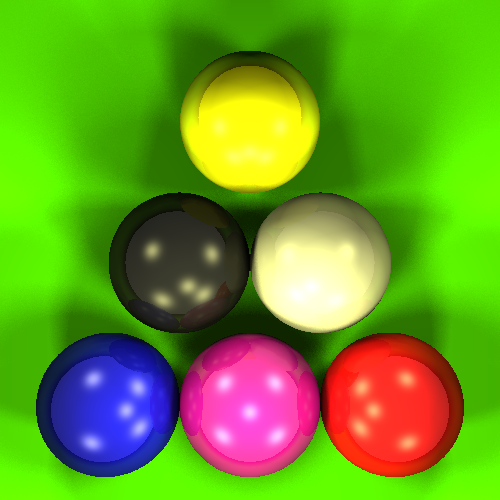
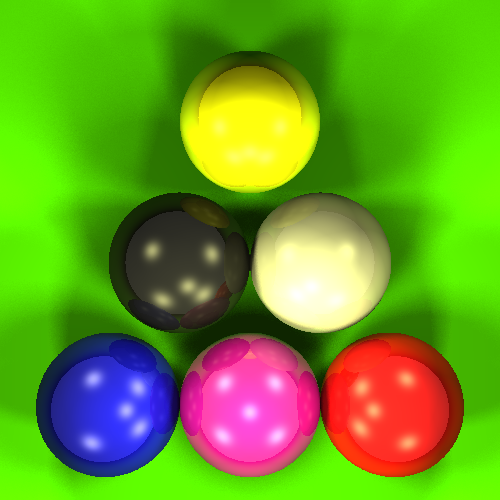
fixed reflection - still some discrepancy

diff --git a/utils.py b/utils.py
@@ -46,11 +46,6 @@ def precompute_camera(camera, width, height):
 
     return E, P0, step_x, step_y
 
-def construct_ray_from_camera(camera_position, pixel_position): # P = P0+tV
-    origin = _to_vec3(camera_position)
-    direction = _normalize(_to_vec3(pixel_position) - origin)
-    return origin, direction
-
 def get_lights(objects):
     return [o for o in objects if isinstance(o, Light)]
 
@@ -75,6 +70,7 @@ def check_ray_object_intersection(ray_origin, ray_dir, objects, ignore_obj=None)
     for obj in get_geometry_objects(objects):
         if ignore_obj is not None and obj is ignore_obj:
             continue
+
         name = obj.__class__.__name__
         if name == "Sphere":
             t, p, n = intersect_sphere(ray_origin, ray_dir, obj)
@@ -275,7 +271,6 @@ def compute_color_at_intersection(ray_origin, ray_dir, objects, scene_settings, 
     view_dir = _normalize(-ray_dir)
 
     local_color = np.zeros(3, dtype=np.float64)
-    reflection_color = np.zeros(3, dtype=np.float64)
 
     for light in get_lights(objects): # Diffuse + Specular
         L = _to_vec3(light.position) - hit_point
@@ -298,25 +293,30 @@ def compute_color_at_intersection(ray_origin, ray_dir, objects, scene_settings, 
 
         local_color += diffuse + specular # local color
 
-    if depth < int(scene_settings.max_recursions) and np.any(np.array(mat.reflection_color, dtype=np.float64) > 0.0): # if mirror / reflective
+    kr = _to_vec3(mat.reflection_color)
+    C_refl = np.zeros(3, dtype=np.float64)
+
+    reflective = (depth < int(scene_settings.max_recursions)) and np.any(kr > 0.0)
+    if reflective:
         refl_dir = _normalize(_reflect(ray_dir, shading_normal)) #direction symmetric wrt normal
         refl_origin = hit_point + shading_normal * EPSILON
-        refl_hit_color = compute_color_at_intersection(refl_origin, refl_dir, objects, scene_settings, depth + 1, ignore_obj=obj, allow_shadows=False) # recursive call
-        reflection_color = _to_vec3(mat.reflection_color) * refl_hit_color
+        C_refl = compute_color_at_intersection(
+            refl_origin, refl_dir, objects, scene_settings, depth + 1, ignore_obj=obj
+        ) #recursive call
 
-    trans = float(mat.transparency)
-    if trans > 0.0 and depth < int(scene_settings.max_recursions): #if transparent
+    C = (1.0 - kr) * local_color + kr * C_refl
+    kt = float(mat.transparency)
+
+    transparent = (depth < int(scene_settings.max_recursions)) and (kt > 0.0)
+    if transparent:
         offset_normal = -normal if front_face else normal
-
         behind_origin = hit_point + offset_normal * EPSILON
-        behind_color = compute_color_at_intersection(behind_origin, ray_dir, objects, scene_settings, depth + 1, ignore_obj=obj) # recursive call
+        C_through = compute_color_at_intersection(
+            behind_origin, ray_dir, objects, scene_settings, depth + 1, ignore_obj=obj
+        ) #recursive call
+        C = (1.0 - kt) * C + kt * C_through
 
-        # output color=(background color)·transparency + (diffuse + specular)·(1−transparency) + (reflection color)
-        out = behind_color * trans + local_color * (1.0 - trans) + reflection_color
-    else: # output color=(diffuse + specular)+(reflection color)
-        out = local_color + reflection_color
-
-    return np.maximum(out, 0.0)
+    return C
 
 def render_scene(camera, scene_settings, objects, width, height):
     image = np.zeros((height, width, 3), dtype=np.float64)
